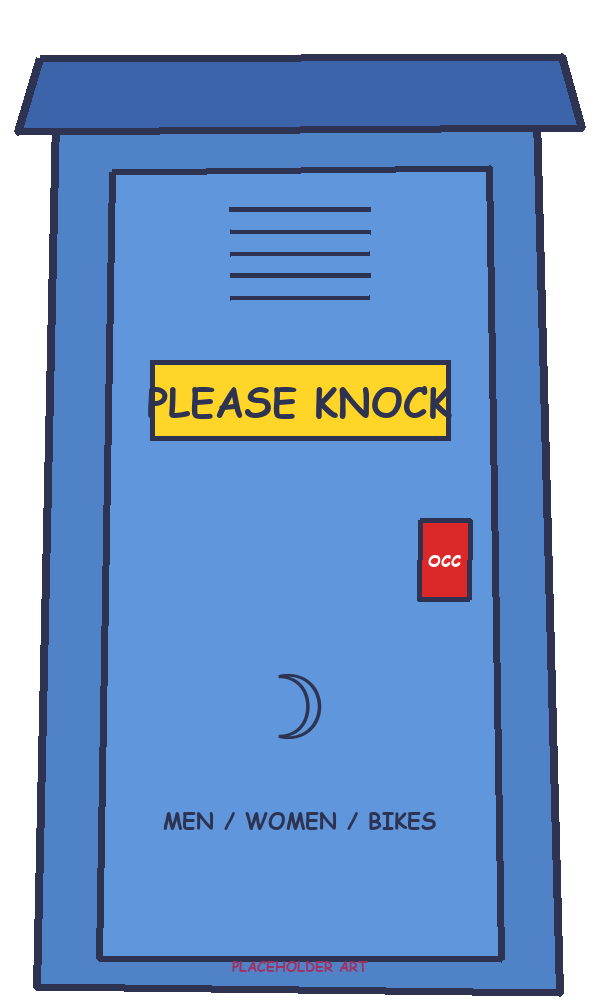
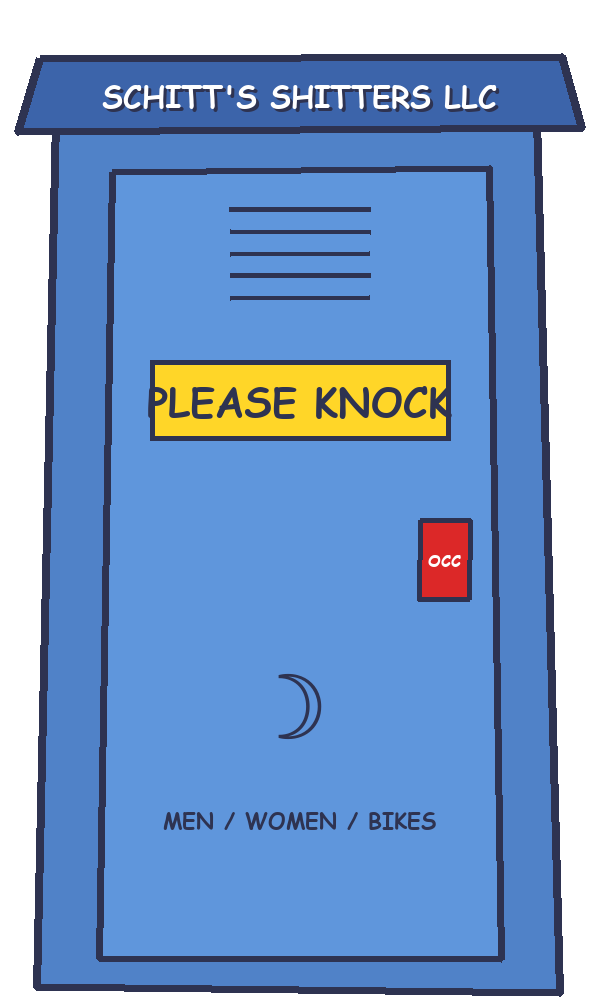
Itinerary: getting here, accommodations, nearby sites; door: Schitt's Shitters LLC

Changed region(s): [[0.18, 0.062, 0.84, 0.124], [0.39, 0.961, 0.6, 0.992]]

diff --git a/itinerary.html b/itinerary.html
@@ -23,6 +23,10 @@
   .stamp { display: inline-block; border: 4px double var(--berry); color: var(--berry); font-family: var(--cond); font-size: 26px; padding: 2px 10px; transform: rotate(-8deg); margin: 6px 0; }
   .sunday { text-align: center; }
   .sunday .bubble { font-size: clamp(26px, 3.4vw, 40px); }
+  .nearby { display: grid; grid-template-columns: 1fr 1fr; gap: 16px; }
+  .nearby h4 { font-size: 20px !important; margin-top: 2px !important; }
+  .items a { font-size: 12.5px; }
+  @media (max-width: 768px) { .nearby { grid-template-columns: 1fr; } }
   .crash { margin: 16px 0 2px; text-align: center; }
   .crash img { display: block; width: 88%; max-width: 220px; margin: 0 auto; filter: drop-shadow(4px 4px 0 var(--navy)); transform-origin: 50% 100%; animation: woozy 3s ease-in-out infinite; }
   .crash:hover img { animation: woozy-hard .35s steps(2) infinite; }
@@ -104,6 +108,38 @@
         <p class="bubble">Go home, ya filthy animal.</p>
         <p class="cond" style="font-size:20px;margin-top:6px">Leave no trace. Leave no man behind.</p>
         <p style="font-size:11.5px">(Check the porta-john. Check under the van. Count your friends, then count them again.)</p>
+      </section>
+
+      <section class="panel span2 tilt-l" aria-labelledby="gh">
+        <h2 id="gh" class="cond day misreg">Getting here</h2>
+        <p><b>Where is "here"?</b> Bumble Bee, Arizona: a dot on the map roughly an hour north of Phoenix off I-17, then down a dirt road until your phone gives up on you. Bumble Bee Ranch is at the end of that road. If you hit Cleator, you went too far. If you hit Crown King, you went <i>way</i> too far and should stay for a beer.</p>
+        <ul class="items">
+          <li><b>The airport</b> <a href="https://www.skyharbor.com/" target="_blank" rel="noopener">Phoenix Sky Harbor (PHX) ↗</a><span class="joke">Fly in, rent something with clearance, tell the rental company nothing.</span></li>
+          <li><b>The venue</b> <a href="http://www.bumblebeeranch.com/" target="_blank" rel="noopener">Bumble Bee Ranch ↗</a> · <a href="https://maps.app.goo.gl/TC1K6T5UgyTHHR3D6" target="_blank" rel="noopener">Directions ↗</a><span class="joke">Load the map before you leave the pavement. Cell service out here is a rumor.</span></li>
+          <li><b>Your mom's house</b> <a href="https://maps.app.goo.gl/gHsz3qyc2R7C7HeS7" target="_blank" rel="noopener">Directions ↗</a><span class="joke">Closer than you'd think. She says hi.</span></li>
+        </ul>
+      </section>
+
+      <section class="info" aria-labelledby="acc">
+        <h3 id="acc">Accommodations</h3>
+        <p><b>Camping.</b> Acres of flat-ish desert for tents and RVs. <b>No hookups:</b> bring your own water, power, and dignity (optional). The road in is dirt, but it's fine for vans, smaller motorhomes, trailers, and, we have personally witnessed this, a Honda Civic. If a Civic can make it, so can your Sprinter.</p>
+        <p><b>Soft people.</b> The nearest town, store, and actual bed is <b>Black Canyon City, 11 miles</b> from the venue. Gas, ice, beer, and a motel mattress. <a href="https://maps.app.goo.gl/T5S1N2v3yQw85Tuj7" target="_blank" rel="noopener">Black Canyon City ↗</a></p>
+      </section>
+
+      <section class="panel span3 tilt-r" aria-labelledby="nb">
+        <h2 id="nb" class="cond day misreg">Nearby sites (if you're visiting)</h2>
+        <div class="nearby">
+          <div>
+            <h4>Cleator Yacht Club</h4>
+            <p>A nautical-themed bar in the middle of the desert, in a near-ghost town with about eight permanent residents, and no water anywhere near it. There are no yachts. There is no club. There is a bar, and it has been serving dusty ATV riders and confused tourists for decades. Wear your captain's hat. Ask where the boats are docked. The whole town went up for sale in 2020, so if you've always wanted to be an admiral, now's your chance.</p>
+            <p style="font-size:11.5px">(We ride there Saturday. See above. Hydrate accordingly.)</p>
+          </div>
+          <div>
+            <h4>Crown King</h4>
+            <p>An old gold-mining town high in the Bradshaw Mountains, 28 miles west of I-17 up a road that will shake your fillings loose. Tiny, weird, and cooler than the desert floor in every sense. Worth the drive if your vehicle and your kidneys can take it.</p>
+            <p><a href="https://en.wikipedia.org/wiki/Crown_King,_Arizona" target="_blank" rel="noopener">Crown King on Wikipedia ↗</a></p>
+          </div>
+        </div>
       </section>
     </div>
 

diff --git a/README.md b/README.md
@@ -94,7 +94,7 @@ All of these are crude generated placeholders, drawn MS Paint-style on purpose. 
 
 | File | Placeholder size | Notes |
 |---|---|---|
-| `assets/door-portajohn.png` | 600×1000 | The gate door. Tall. The "PLEASE KNOCK" text is overlaid by the page. |
+| `assets/door-portajohn.png` | 600×1000 | The gate door. Tall. The "PLEASE KNOCK" text is overlaid by the page. "SCHITT'S SHITTERS LLC" is painted on the roof, so put it on the real art too if you want to keep it. |
 | `assets/camp-bg.png` | 1600×800 (2:1) | The campsite. Keep it **2:1**, because the hotspots are positioned in percentages of this box. The "GET OFF AT SSAZ" line in its bottom-right corner is painted into the image, so add it to the real art too if you want to keep it. |
 | `assets/obj-weather.png` | 260×220 | Transparent. Links to NOAA. |
 | `assets/photos/placeholder-01…12.png` | 400×300 | Stand-ins for gallery photos and the snapshot strips. |
